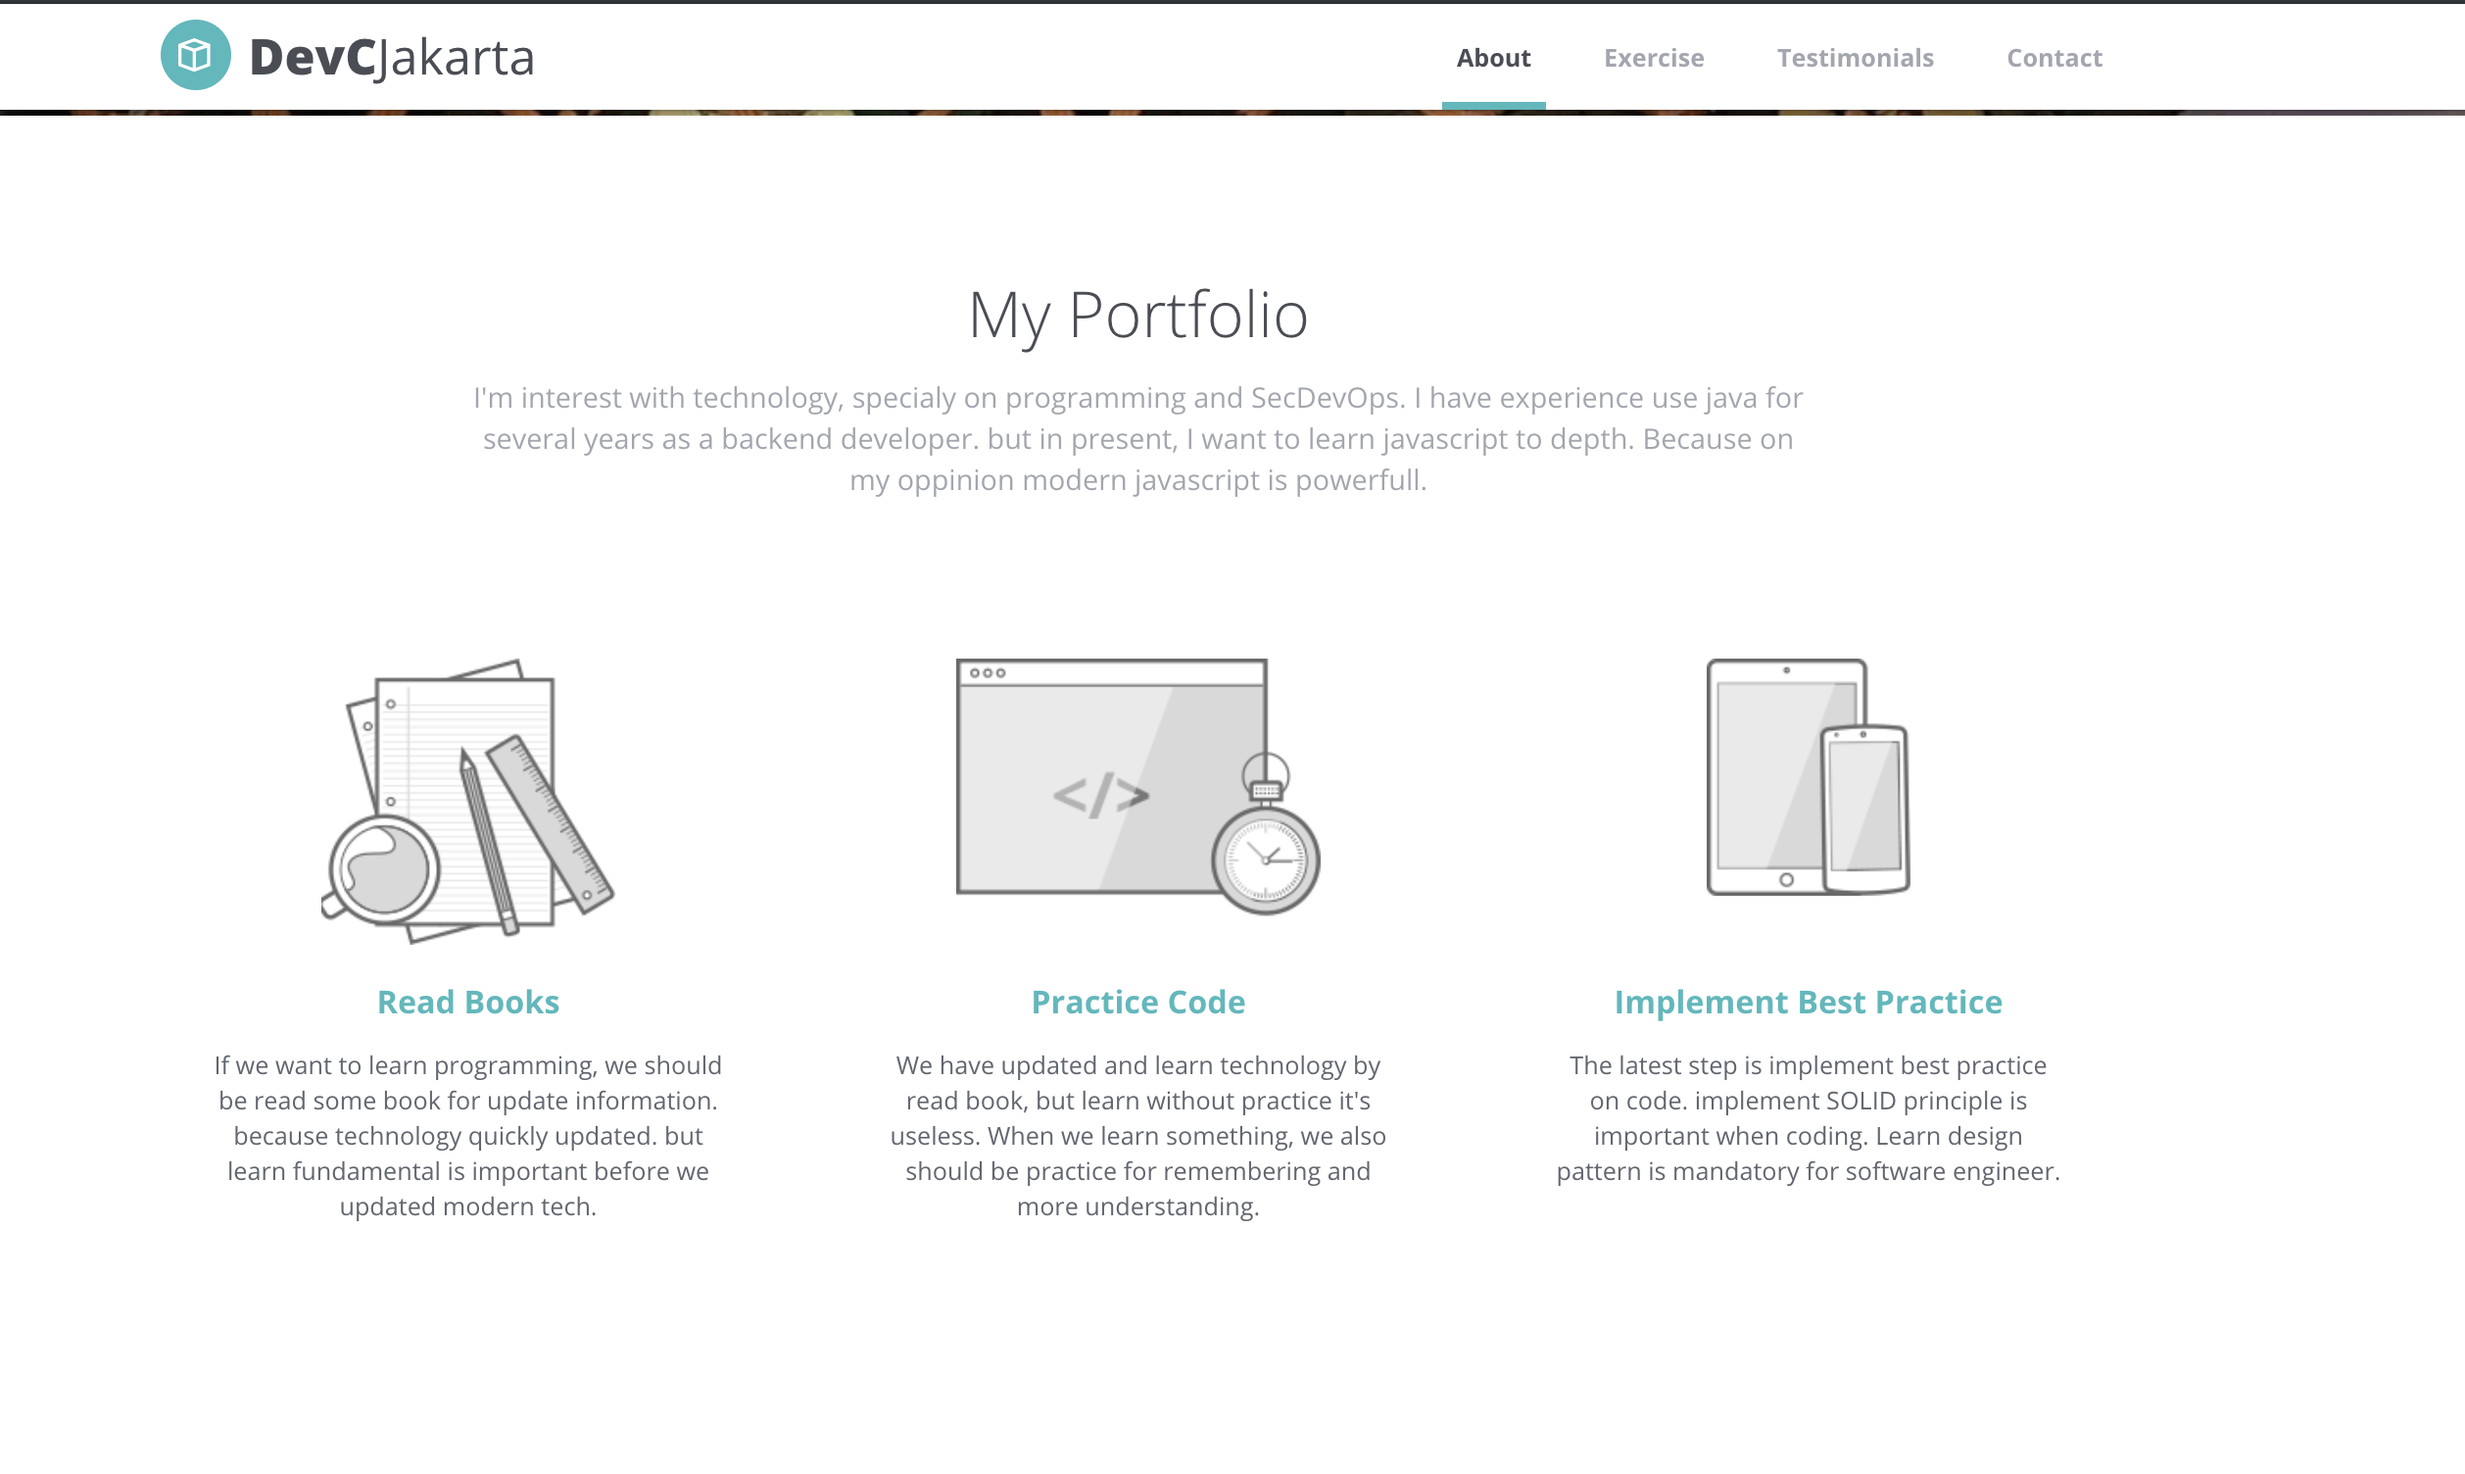
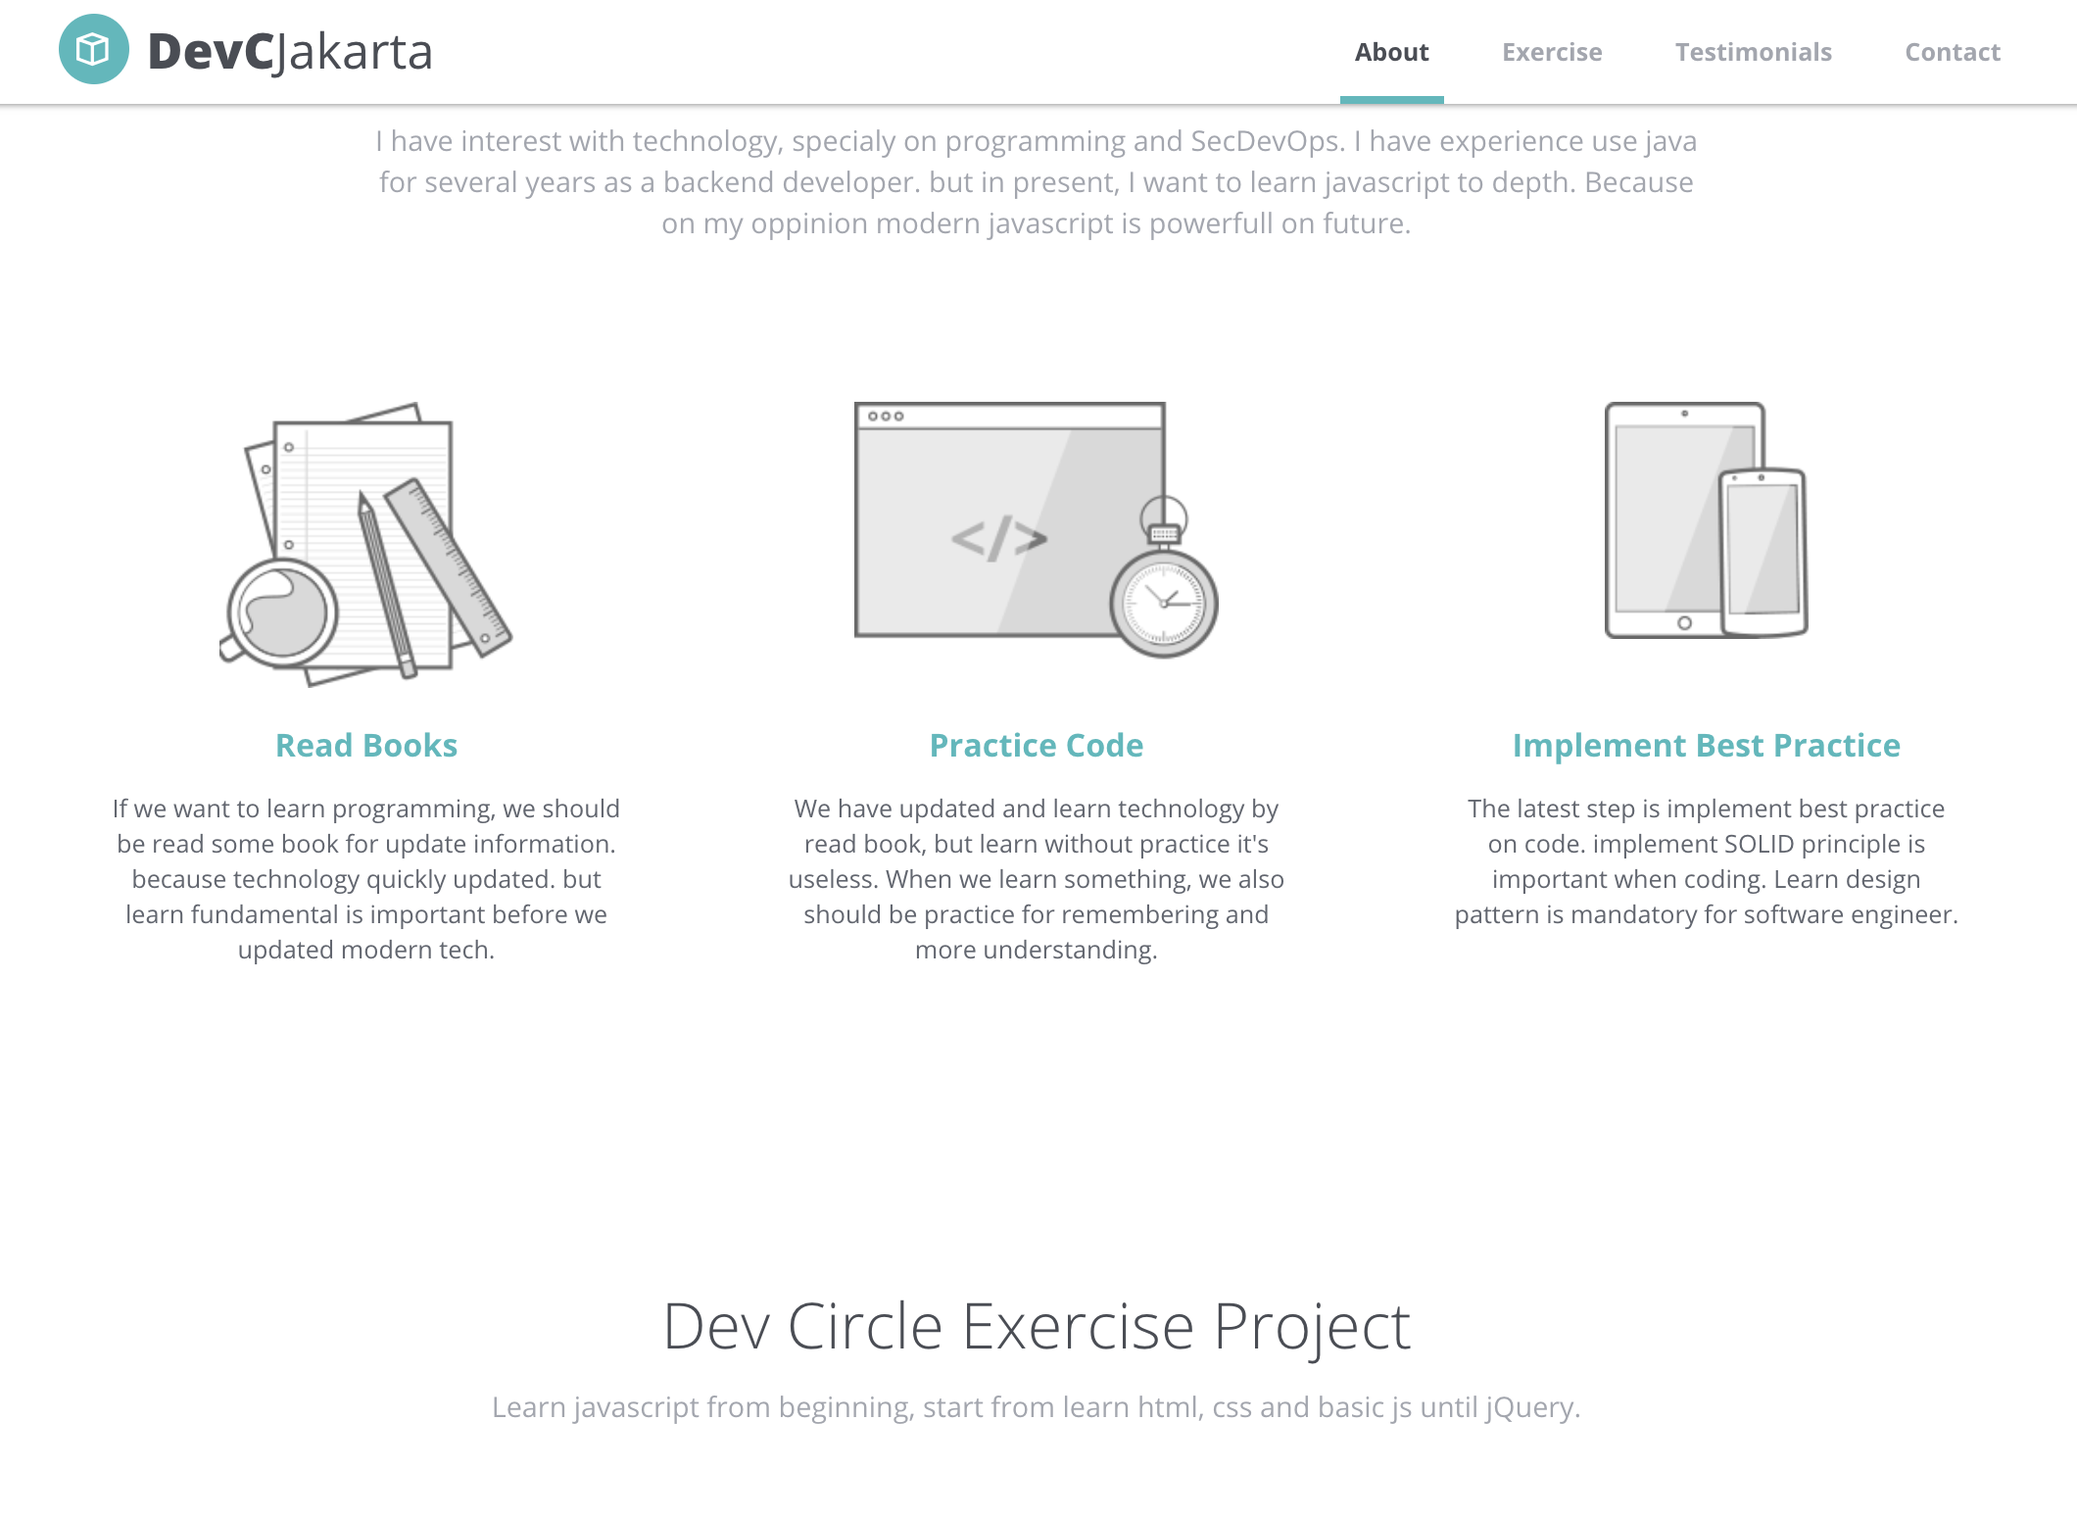
update typo and close button on modal

diff --git a/src/exercise-4-final-project/index.html b/src/exercise-4-final-project/index.html
@@ -100,9 +100,9 @@
   <div id="about" class="about-section">
     <div class="container text-center">
       <h2 class="section-title">My Portfolio</h2>
-      <p class="intro">I'm interest with technology, specialy on programming and SecDevOps.
-        I have experience use java for several years as a backend developer. but in present,
-        I want to learn javascript to depth. Because on my oppinion modern javascript is powerfull.
+      <p class="intro">I have interest with technology, specialy on programming and SecDevOps. I have experience use
+        java for several years as a backend developer. but in present, I want to learn javascript to depth. Because on
+        my oppinion modern javascript is powerfull on future.
       </p>
 
       <div class="items-wrapper row">
@@ -164,7 +164,7 @@
   <div id="exercise" class="features-section">
     <div class="container text-center">
       <h2 class="section-title">Dev Circle Exercise Project</h2>
-      <p class="intro">Learn javascript from beginning, start from learn html, css and basic js until . </p>
+      <p class="intro">Learn javascript from beginning, start from learn html, css and basic js until jQuery. </p>
 
       <div class="tabbed-area row">
 
@@ -176,7 +176,7 @@
           <a class="nav-link mb-lg-3" href="#exercise-2" aria-controls="exercise-2" data-toggle="pill" role="tab"
             aria-selected="false"><i class="fas fa-calculator mr-2"></i>Exercise 2 create calculator scientific</a>
           <a class="nav-link mb-lg-3" href="#exercise-3" aria-controls="exercise-3" data-toggle="pill" role="tab"
-            aria-selected="false"><i class="fas fa-chart-bar mr-2"></i>Exercise 3 feacth data from swappi</a>
+            aria-selected="false"><i class="fas fa-chart-bar mr-2"></i>Exercise 3 fecth data from swapi.co</a>
           <a class="nav-link mb-lg-3" href="#exercise-4" aria-controls="exercise-4" data-toggle="pill" role="tab"
             aria-selected="false"><i class="fas fa-code mr-2"></i>Exercise 4 final project</a>
         </div>

diff --git a/src/exercise-4-final-project/assets/css/styles.css b/src/exercise-4-final-project/assets/css/styles.css
@@ -1182,10 +1182,10 @@ a.btn-cta {
 /* The Close Button */
 .close {
   position: absolute;
-  top: 20%;
-  right: 10%;
+  top: 70px;
+  right: 25%;
   color: #f1f1f1;
-  font-size: 2.5vw;
+  font-size: 3vw;
   font-weight: bold;
   transition: 0.3s;
 }
@@ -1201,6 +1201,12 @@ a.btn-cta {
 @media only screen and (max-width: 700px) {
   .modal-content {
     width: 100%;
+  }
+}
+
+@media only screen and (max-width: 1450px) {
+  .close {
+    right: 5%;
   }
 }
 
